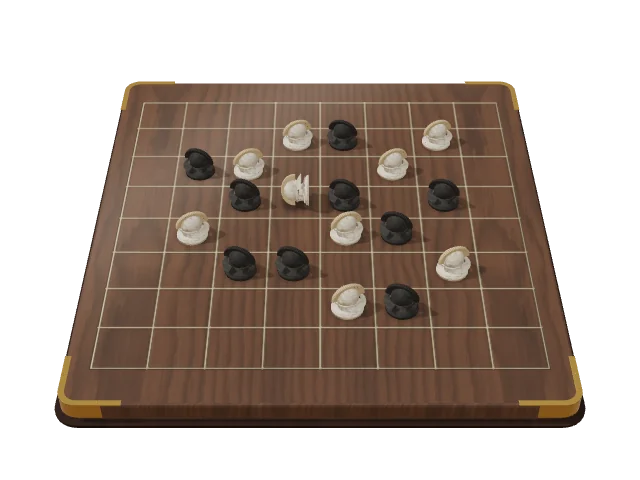
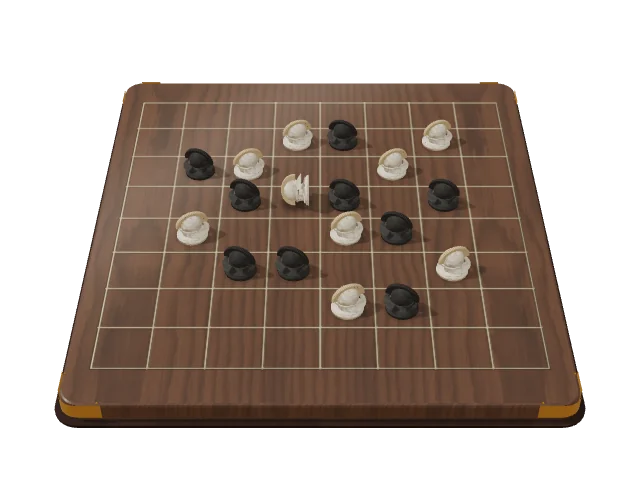
ラトルンクロルム3D：真鍮金具が銀色に見え、ちらつく問題を修正（クリアコートをやめ、金属度を下げ、盤面から浮かせる）
Claude-Session: https://claude.ai/code/session_01EiWRAVpHBixHi279KdKnET

diff --git a/atlas/lazy.js b/atlas/lazy.js
@@ -5,7 +5,7 @@
      AtlasLazy.has3D(id) / hasPlay(id) / hasRules(id) — known before loading; AtlasLazy.loaded(id) */
 (function () {
 'use strict';
-const G = {"reversi": ["models/reversi.js?v=1", "games/reversi.js?v=57", "rules/reversi.js?v=14"], "shogi": ["models/shogi.js?v=102", "games/shogi-play.js?v=51", "games/shogi.js?v=18", "rules/shogi.js?v=21"], "chess": ["models/chess.js?v=23", "games/chess.js?v=23", "rules/chess.js?v=8"], "backgammon": ["models/backgammon.js?v=123", "games/backgammon.js?v=29", "rules/backgammon.js?v=11"], "gomoku": ["models/goban.js?v=17", "games/gomoku.js?v=19", "rules/gomoku.js?v=10"], "go": ["models/goban.js?v=17", "games/go.js?v=18", "rules/go.js?v=7"], "hex": ["models/goban.js?v=17", "models/hex.js?v=3", "games/hex.js?v=9", "rules/hex.js?v=7"], "tafl": ["games/tafl.js?v=20", "rules/tafl.js?v=8"], "xiangqi": ["models/xiangqi.js?v=8", "games/xiangqi.js?v=18", "rules/xiangqi.js?v=7"], "janggi": ["models/xiangqi.js?v=8", "models/janggi.js?v=3", "games/janggi.js?v=10", "rules/janggi.js?v=3"], "checkers": ["models/checkers.js?v=23", "games/checkers.js?v=17", "rules/checkers.js?v=11"], "ugolki": ["models/checkers.js?v=23", "models/ugolki.js?v=4", "games/ugolki.js?v=17", "rules/ugolki.js?v=11"], "morris": ["models/morris.js?v=9", "games/morris-pieces.js?v=5", "games/morris.js?v=16", "rules/morris.js?v=8"], "connect4": ["models/connect4.js?v=6", "games/connect4-tiles.js?v=3", "games/connect4.js?v=10", "rules/connect4.js?v=3"], "mancala": ["models/mancala.js?v=6", "games/mancala.js?v=16", "rules/mancala.js?v=5"], "dots": ["models/dots.js?v=5", "games/dots.js?v=15", "rules/dots.js?v=3"], "ur": ["models/ur-dice.js?v=2", "models/ur.js?v=5", "games/ur-kit.js?v=15", "games/ur.js?v=15", "rules/ur.js?v=18"], "fanorona": ["models/fanorona.js?v=4", "games/fanorona.js?v=9", "rules/fanorona.js?v=8"], "konane": ["models/konane.js?v=7", "games/konane.js?v=18", "rules/konane.js?v=7"], "latrunculi": ["models/latrunculi.js?v=4", "games/latrunculi.js?v=9", "rules/latrunculi.js?v=3"], "foxgeese": ["models/foxgeese.js?v=7", "games/foxgeese.js?v=17", "rules/foxgeese.js?v=13"], "amazons": ["models/amazons.js?v=7", "games/amazons.js?v=17", "rules/amazons.js?v=9"], "senet": ["models/ur-dice.js?v=2", "models/senet.js?v=10", "games/senet-kit.js?v=5", "games/senet.js?v=20", "rules/senet.js?v=10"], "agon": ["models/agon.js?v=4", "games/agon.js?v=16", "rules/agon.js?v=6"], "alquerque": ["models/alquerque.js?v=3", "games/fanorona.js?v=9", "rules/alquerque.js?v=6"], "ludo": ["../ludo/engine.js?v=4", "../ludo/house.js?v=7", "../ludo/board2d.js?v=7", "../ludo/board-art.js?v=3", "models/ludo.js?v=10", "games/ludo.js?v=30", "rules/ludo.js?v=4"], "carrom": ["../carrom/engine.js?v=8", "models/carrom.js?v=18", "games/carrom.js?v=46", "rules/carrom.js?v=9", "../shared/onlinesec.js?v=2l14as1sh1", "online3d.js?v=2"], "crokinole": ["../carrom/engine.js?v=8", "games/carrom.js?v=46", "../crokinole/engine.js?v=7", "models/crokinole.js?v=13", "games/crokinole.js?v=24", "rules/crokinole.js?v=5", "../shared/onlinesec.js?v=2l14as1sh1", "online3d.js?v=2"], "hockey": ["../hockey/engine.js?v=19", "models/hockey.js?v=8", "games/hockey.js?v=41", "rules/hockey.js?v=8"], "botao": ["../carrom/engine.js?v=8", "games/carrom.js?v=46", "../botao/engine.js?v=16", "models/botao.js?v=11", "games/botao-i18n.js?v=16", "games/botao.js?v=36", "rules/botao.js?v=10", "../shared/onlinesec.js?v=2l14as1sh1", "online3d.js?v=2"], "shanghai": ["games/shanghai-core.js?v=2", "games/shanghai-scenes.js?v=2", "games/shanghai-zodiac.js?v=6", "games/shanghai-i18n.js?v=17", "models/shanghai.js?v=19", "games/shanghai.js?v=44", "rules/shanghai-i18n.js?v=1", "rules/shanghai.js?v=1"], "patolli": ["models/patolli.js?v=1", "games/patolli-kit.js?v=2", "games/patolli.js?v=4", "rules/patolli.js?v=3"], "peg": ["../peg/engine.js?v=2", "../peg/i18n.js?v=11", "models/peg.js?v=23", "games/peg.js?v=16", "rules/peg.js?v=4"], "hitblow": ["../hitblow/engine.js?v=6", "models/hitblow.js?v=27", "games/hitblow.js?v=19", "rules/hitblow.js?v=4"]};
+const G = {"reversi": ["models/reversi.js?v=1", "games/reversi.js?v=57", "rules/reversi.js?v=14"], "shogi": ["models/shogi.js?v=102", "games/shogi-play.js?v=51", "games/shogi.js?v=18", "rules/shogi.js?v=21"], "chess": ["models/chess.js?v=23", "games/chess.js?v=23", "rules/chess.js?v=8"], "backgammon": ["models/backgammon.js?v=123", "games/backgammon.js?v=29", "rules/backgammon.js?v=11"], "gomoku": ["models/goban.js?v=17", "games/gomoku.js?v=19", "rules/gomoku.js?v=10"], "go": ["models/goban.js?v=17", "games/go.js?v=18", "rules/go.js?v=7"], "hex": ["models/goban.js?v=17", "models/hex.js?v=3", "games/hex.js?v=9", "rules/hex.js?v=7"], "tafl": ["games/tafl.js?v=20", "rules/tafl.js?v=8"], "xiangqi": ["models/xiangqi.js?v=8", "games/xiangqi.js?v=18", "rules/xiangqi.js?v=7"], "janggi": ["models/xiangqi.js?v=8", "models/janggi.js?v=3", "games/janggi.js?v=10", "rules/janggi.js?v=3"], "checkers": ["models/checkers.js?v=23", "games/checkers.js?v=17", "rules/checkers.js?v=11"], "ugolki": ["models/checkers.js?v=23", "models/ugolki.js?v=4", "games/ugolki.js?v=17", "rules/ugolki.js?v=11"], "morris": ["models/morris.js?v=9", "games/morris-pieces.js?v=5", "games/morris.js?v=16", "rules/morris.js?v=8"], "connect4": ["models/connect4.js?v=6", "games/connect4-tiles.js?v=3", "games/connect4.js?v=10", "rules/connect4.js?v=3"], "mancala": ["models/mancala.js?v=6", "games/mancala.js?v=16", "rules/mancala.js?v=5"], "dots": ["models/dots.js?v=5", "games/dots.js?v=15", "rules/dots.js?v=3"], "ur": ["models/ur-dice.js?v=2", "models/ur.js?v=5", "games/ur-kit.js?v=15", "games/ur.js?v=15", "rules/ur.js?v=18"], "fanorona": ["models/fanorona.js?v=4", "games/fanorona.js?v=9", "rules/fanorona.js?v=8"], "konane": ["models/konane.js?v=7", "games/konane.js?v=18", "rules/konane.js?v=7"], "latrunculi": ["models/latrunculi.js?v=5", "games/latrunculi.js?v=9", "rules/latrunculi.js?v=3"], "foxgeese": ["models/foxgeese.js?v=7", "games/foxgeese.js?v=17", "rules/foxgeese.js?v=13"], "amazons": ["models/amazons.js?v=7", "games/amazons.js?v=17", "rules/amazons.js?v=9"], "senet": ["models/ur-dice.js?v=2", "models/senet.js?v=10", "games/senet-kit.js?v=5", "games/senet.js?v=20", "rules/senet.js?v=10"], "agon": ["models/agon.js?v=4", "games/agon.js?v=16", "rules/agon.js?v=6"], "alquerque": ["models/alquerque.js?v=3", "games/fanorona.js?v=9", "rules/alquerque.js?v=6"], "ludo": ["../ludo/engine.js?v=4", "../ludo/house.js?v=7", "../ludo/board2d.js?v=7", "../ludo/board-art.js?v=3", "models/ludo.js?v=10", "games/ludo.js?v=30", "rules/ludo.js?v=4"], "carrom": ["../carrom/engine.js?v=8", "models/carrom.js?v=18", "games/carrom.js?v=46", "rules/carrom.js?v=9", "../shared/onlinesec.js?v=2l14as1sh1", "online3d.js?v=2"], "crokinole": ["../carrom/engine.js?v=8", "games/carrom.js?v=46", "../crokinole/engine.js?v=7", "models/crokinole.js?v=13", "games/crokinole.js?v=24", "rules/crokinole.js?v=5", "../shared/onlinesec.js?v=2l14as1sh1", "online3d.js?v=2"], "hockey": ["../hockey/engine.js?v=19", "models/hockey.js?v=8", "games/hockey.js?v=41", "rules/hockey.js?v=8"], "botao": ["../carrom/engine.js?v=8", "games/carrom.js?v=46", "../botao/engine.js?v=16", "models/botao.js?v=11", "games/botao-i18n.js?v=16", "games/botao.js?v=36", "rules/botao.js?v=10", "../shared/onlinesec.js?v=2l14as1sh1", "online3d.js?v=2"], "shanghai": ["games/shanghai-core.js?v=2", "games/shanghai-scenes.js?v=2", "games/shanghai-zodiac.js?v=6", "games/shanghai-i18n.js?v=17", "models/shanghai.js?v=19", "games/shanghai.js?v=44", "rules/shanghai-i18n.js?v=1", "rules/shanghai.js?v=1"], "patolli": ["models/patolli.js?v=1", "games/patolli-kit.js?v=2", "games/patolli.js?v=4", "rules/patolli.js?v=3"], "peg": ["../peg/engine.js?v=2", "../peg/i18n.js?v=11", "models/peg.js?v=23", "games/peg.js?v=16", "rules/peg.js?v=4"], "hitblow": ["../hitblow/engine.js?v=6", "models/hitblow.js?v=27", "games/hitblow.js?v=19", "rules/hitblow.js?v=4"]};
 const F = {"patolli": {"t3": true, "play": true, "rules": true}, "reversi": {"t3": true, "play": true, "rules": true}, "shogi": {"t3": true, "play": true, "rules": true}, "chess": {"t3": true, "play": true, "rules": true}, "backgammon": {"t3": true, "play": true, "rules": true}, "gomoku": {"t3": true, "play": true, "rules": true}, "go": {"t3": true, "play": true, "rules": true}, "hex": {"t3": true, "play": true, "rules": true}, "tafl": {"t3": true, "play": true, "rules": true}, "xiangqi": {"t3": true, "play": true, "rules": true}, "janggi": {"t3": true, "play": true, "rules": true}, "checkers": {"t3": true, "play": true, "rules": true}, "ugolki": {"t3": true, "play": true, "rules": true}, "morris": {"t3": true, "play": true, "rules": true}, "connect4": {"t3": true, "play": true, "rules": true}, "mancala": {"t3": true, "play": true, "rules": true}, "dots": {"t3": true, "play": true, "rules": true}, "ur": {"t3": true, "play": true, "rules": true}, "fanorona": {"t3": true, "play": true, "rules": true}, "konane": {"t3": true, "play": true, "rules": true}, "latrunculi": {"t3": true, "play": true, "rules": true}, "foxgeese": {"t3": true, "play": true, "rules": true}, "amazons": {"t3": true, "play": true, "rules": true}, "senet": {"t3": true, "play": true, "rules": true}, "agon": {"t3": true, "play": true, "rules": true}, "alquerque": {"t3": true, "play": true, "rules": true}, "ludo": {"t3": true, "play": true, "rules": true}, "carrom": {"t3": true, "play": true, "rules": true}, "crokinole": {"t3": true, "play": true, "rules": true}, "hockey": {"t3": true, "play": true, "rules": true}, "botao": {"t3": true, "play": true, "rules": true}, "peg": {"t3": true, "play": true, "rules": true}, "shanghai": {"t3": true, "play": true, "rules": true}, "hitblow": {"t3": true, "play": true, "rules": true}};
 const done = new Set(), loading = new Map(), ok = new Set();
 function load(src) {

diff --git a/atlas/tables3d.js b/atlas/tables3d.js
@@ -426,8 +426,8 @@
   } };
   X.boardName = (k, lang, id) => { const g = id && NG[id] && NG[id][k]; if (g) return g[lang] || g.en; const o = N3[k]; if (!o) return k; const n = o[lang] || o.en, c = n.replace(/\s*(?:3D|ثلاثي(?: الأبعاد)?)$/, '').trim(); return c || n; };   // (2026-11-10: the boards' names without '3D')
   // the full games' 「3D盤」 tiles: the board alone, from straight above, no room (atlas/tools/boardicon.html, 2026-11-09)
-  X.boardIcon = (id, k) => new URL('img/boardic-' + id + '-' + k + '.webp?v=' + (id === 'foxgeese' ? 5 : id === 'latrunculi' ? 4 : id === 'go' || id === 'gomoku' ? 9 : id === 'hex' ? 3 : id === 'connect4' ? 2 : id === 'mancala' ? 2 : id === 'morris' ? 2 : id === 'backgammon' ? 2 : id === 'checkers' ? 5 : id === 'xiangqi' ? 3 : id === 'chess' ? 7 : 1), ME).href;
-  X.boardThumb = (id, k) => new URL('img/board-' + id + '-' + k + '.webp?v=' + (id === 'foxgeese' ? 5 : id === 'latrunculi' ? 4 : id === 'hitblow' ? 9 : id === 'go' || id === 'gomoku' ? 9 : id === 'hex' ? 3 : id === 'connect4' ? 2 : id === 'mancala' ? 2 : id === 'morris' ? 2 : id === 'senet' ? 3 : id === 'carrom' ? 5 : id === 'crokinole' ? 5 : id === 'konane' ? 2 : id === 'ludo' ? 2 : id === 'hockey' ? 2 : id === 'peg' ? 10 : id === 'backgammon' ? 2 : id === 'checkers' ? 5 : id === 'xiangqi' ? 3 : id === 'botao' ? 6 : id === 'chess' ? 7 : 1), ME).href;
+  X.boardIcon = (id, k) => new URL('img/boardic-' + id + '-' + k + '.webp?v=' + (id === 'foxgeese' ? 5 : id === 'latrunculi' ? 5 : id === 'go' || id === 'gomoku' ? 9 : id === 'hex' ? 3 : id === 'connect4' ? 2 : id === 'mancala' ? 2 : id === 'morris' ? 2 : id === 'backgammon' ? 2 : id === 'checkers' ? 5 : id === 'xiangqi' ? 3 : id === 'chess' ? 7 : 1), ME).href;
+  X.boardThumb = (id, k) => new URL('img/board-' + id + '-' + k + '.webp?v=' + (id === 'foxgeese' ? 5 : id === 'latrunculi' ? 5 : id === 'hitblow' ? 9 : id === 'go' || id === 'gomoku' ? 9 : id === 'hex' ? 3 : id === 'connect4' ? 2 : id === 'mancala' ? 2 : id === 'morris' ? 2 : id === 'senet' ? 3 : id === 'carrom' ? 5 : id === 'crokinole' ? 5 : id === 'konane' ? 2 : id === 'ludo' ? 2 : id === 'hockey' ? 2 : id === 'peg' ? 10 : id === 'backgammon' ? 2 : id === 'checkers' ? 5 : id === 'xiangqi' ? 3 : id === 'botao' ? 6 : id === 'chess' ? 7 : 1), ME).href;
   // choose a board for a game: the shared key is written and the showcase board (if it is that game's) is rebuilt at once
   X.setBoard = (id, k) => { const B = BOARDS[id]; if (!B || !B.list.includes(k)) return; B.set(k); try { dispatchEvent(new CustomEvent('atlas-board', { detail: { id, look: k } })); } catch (e) {} };
   // 駒: the games whose 3D figures come in sets (the board view's panel shows them as a row under 盤; the full game's 「3D駒」 too)

diff --git a/atlas/models/latrunculi.js b/atlas/models/latrunculi.js
@@ -311,7 +311,7 @@
       const walnut = M('wdPlinth', { map: sideTex('wood'), color: '#7a5a44', roughness: .55, clearcoat: .3, clearcoatRoughness: .4 });
       add(block('wdPl', W + .2, H + .2, K[6] + .1, PL, 3.6), walnut, 0, 0, 0);
       // brass corner caps: a quarter ring and two arms on the top, the same wrapped round the side; two screws
-      const brass = M('brass', { color: '#f4c968', metalness: 1, roughness: .07, clearcoat: 1, clearcoatRoughness: .03, envMapIntensity: 2.8 }), brassD = M('brassD', { color: '#e6b85c', metalness: 1, roughness: .1, envMapIntensity: 2.6 });   // (2026-11-19 user: 煌めき感を — polished, nearly gold)
+      const brass = M('brass', { color: '#e0a83e', metalness: .72, roughness: .22, emissive: '#2a1a04', envMapIntensity: 1.8 }), brassD = M('brassD', { color: '#c8922e', metalness: .72, roughness: .25, emissive: '#2a1a04', envMapIntensity: 1.6 });   // (2026-11-19: no clearcoat — its uncoloured reflection read as silver; not fully metal — in the dark rooms a pure metal went black: some gold of its own, lit by the lamps)   // (2026-11-19 user: 煌めき感を — polished, nearly gold)
       const r0 = K[6], armL = .42, bw = .1, TH = K[7], sh = TH * .8, y0 = PL;
       for (const [sx, sz] of [[1, -1], [-1, -1], [1, 1], [-1, 1]]) {
         const cx = sx * (W / 2 - r0), cz = sz * (H / 2 - r0);
@@ -321,7 +321,7 @@
         const capG = G('wdCapL', () => { const sh2 = new TT.Shape(), ri = r0 - bw, A = armL + r0;
           sh2.moveTo(-A, r0); sh2.lineTo(0, r0); sh2.absarc(0, 0, r0, Math.PI / 2, 0, true); sh2.lineTo(r0, -A); sh2.lineTo(ri, -A); sh2.lineTo(ri, 0); sh2.absarc(0, 0, ri, 0, Math.PI / 2, false); sh2.lineTo(-A, ri); sh2.closePath();
           const e = new TT.ExtrudeGeometry(sh2, { depth: .006, bevelEnabled: true, bevelThickness: .006, bevelSize: .006, bevelSegments: 2, curveSegments: 8 }); e.rotateX(Math.PI / 2); e.translate(0, .012, 0); e.computeVertexNormals(); return e; });
-        const cap = mesh(capG, brass, cx, y0 + TH, cz); cap.scale.set(sx, 1, sz); g.add(cap);
+        const cap = mesh(capG, brass, cx, y0 + TH + .003, cz);   // (lifted off the top: its underside flickered against it) cap.scale.set(sx, 1, sz); g.add(cap);
         const thk = G('wdArmT', () => new TT.BoxGeometry(1, .012, 1));
         const thS = Math.PI / 2 + Math.atan2(-sz, sx) - Math.PI / 4;   // (the cylinder's θ for this quadrant)
         const th0 = sx > 0 ? (sz > 0 ? 0 : Math.PI / 2) : (sz < 0 ? Math.PI : Math.PI * 1.5);

diff --git a/latrunculi/index.html b/latrunculi/index.html
@@ -1374,7 +1374,7 @@ body.hb-on .hb .controls.hb-menu{display:flex!important}
   const f = document.createElement('link'); f.rel = 'stylesheet'; f.href = 'https://fonts.googleapis.com/css2?family=RocknRoll+One&family=Zen+Maru+Gothic:wght@500;700;900&family=Fredoka:wght@600;700&display=swap'; document.head.appendChild(f);
   const load = src => new Promise((res, rej) => { const s = document.createElement('script'); s.src = src; s.onload = res; s.onerror = rej; document.body.appendChild(s); });
   if (window.AtlasLoading) { AtlasLoading.show(); setTimeout(() => AtlasLoading.hide(), 12000); }   // safety net
-  (/[?&]three=128\b/.test(location.search) ? load('https://cdnjs.cloudflare.com/ajax/libs/three.js/r128/three.min.js') : load('../atlas/vendor/three-r186.min.js?v=1').then(() => load('../atlas/vendor/three-compat.js?v=15'))).then(() => load('../atlas/img/tex/baked.js?v=3')).then(() => load('../atlas/table3d.js?v=184')).then(() => load('../atlas/tables3d.js?v=165')).then(() => load('../atlas/skin/common.js?v=114')).then(() => load('../atlas/models/latrunculi.js?v=4')).then(() => load('../atlas/skin/latrunculi.js?v=6'))
+  (/[?&]three=128\b/.test(location.search) ? load('https://cdnjs.cloudflare.com/ajax/libs/three.js/r128/three.min.js') : load('../atlas/vendor/three-r186.min.js?v=1').then(() => load('../atlas/vendor/three-compat.js?v=15'))).then(() => load('../atlas/img/tex/baked.js?v=3')).then(() => load('../atlas/table3d.js?v=184')).then(() => load('../atlas/tables3d.js?v=166')).then(() => load('../atlas/skin/common.js?v=114')).then(() => load('../atlas/models/latrunculi.js?v=5')).then(() => load('../atlas/skin/latrunculi.js?v=6'))
     .catch(() => { document.documentElement.classList.remove('atlas-skin'); if (window.AtlasLoading) AtlasLoading.hide(); });
 })();
 </script>

diff --git a/atlas/index.html b/atlas/index.html
@@ -2330,7 +2330,7 @@ else document.write('<script src="https://cdnjs.cloudflare.com/ajax/libs/three.j
 <script>/* the places other than the chabudai (tables3d.js, 440 KB): at once when one is chosen, else in idle time after the page has
    loaded (2026-11-10); 'atlas-places' tells the page they are there */
 (function () {
-  var SRC = 'tables3d.js?v=165', k = 0, p = null;
+  var SRC = 'tables3d.js?v=166', k = 0, p = null;
   try { k = +(localStorage.getItem('atlas-table') || 0) || 0; var m = /[?&]tbl=(\d+)/.exec(location.search); if (m) k = +m[1]; } catch (e) {}
   window.AtlasPlaces = function () { return p || (p = new Promise(function (res) { var s = document.createElement('script'); s.src = SRC; s.onload = s.onerror = function () { res(); try { dispatchEvent(new Event('atlas-places')); } catch (e) {} }; document.head.appendChild(s); })); };
   if (k) { document.write('<script src="' + SRC + '"><\/script>'); p = Promise.resolve(); }
@@ -2350,7 +2350,7 @@ window.AtlasRgdTimer = function (btn, ms, alive) {
   }, 60);
 };</script>
 <script src="../shared/tapword.js?v=1"></script>
-<script src="lazy.js?v=464"></script>
+<script src="lazy.js?v=465"></script>
 <script src="puzzle-lines.js?v=1"></script>
 <script src="puzzles.js?v=40"></script>
 <script src="lessons3d.js?v=69"></script>
